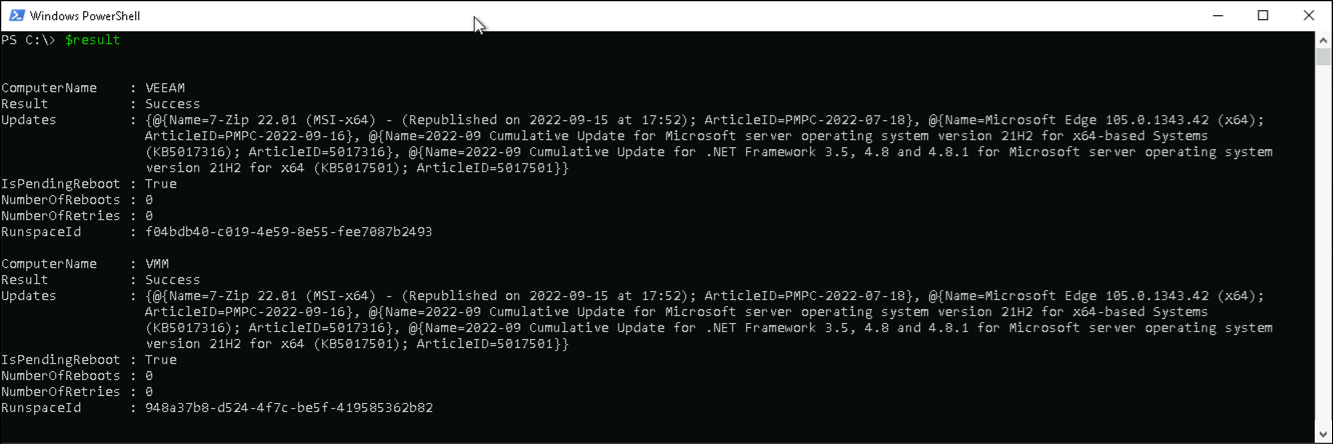
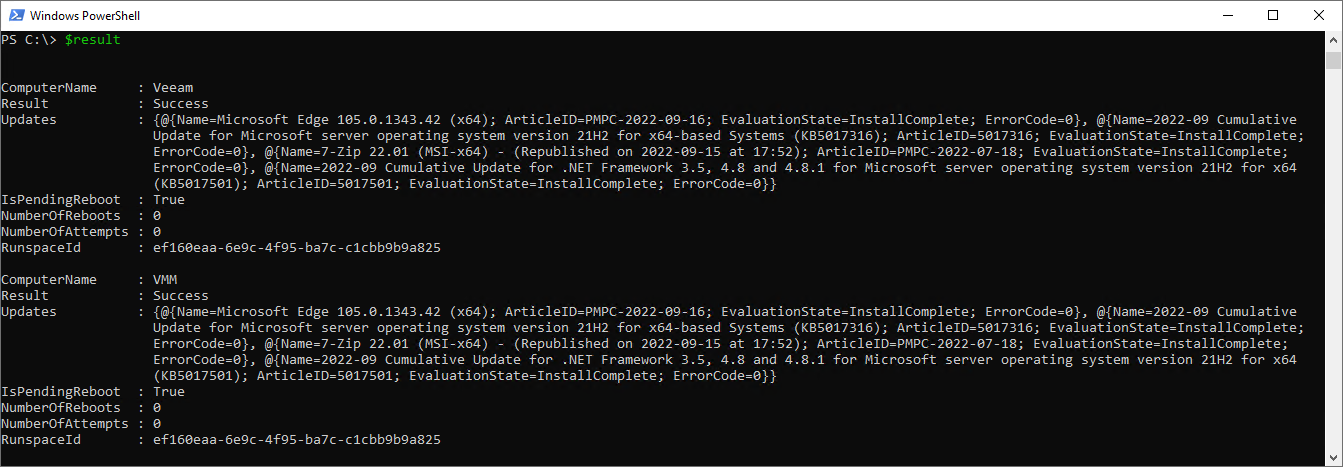
deploy: codaamok/codaamok.github.io-hugo@5cd3fd53d8760b20e4a92c26735a506f9582135f

Changed region(s): [[0.0, 0.0, 1.0, 1.0]]

diff --git a/p/patching-snowflakes-with-configmgr-and-powershell/index.html b/p/patching-snowflakes-with-configmgr-and-powershell/index.html
@@ -310,7 +310,7 @@
 <p>For each host, it will remotely start the software update installation for all updates deployed to it. By default it doesn&rsquo;t reboot or make any retry attempts, but there parameters for this if you need it:</p>
 <ul>
 <li><code>-AllowReboot</code> switch will reboot the system(s) if any update returned an exit code indicating a reboot is required</li>
-<li><code>-Retry</code> parameter will let you indicate the maximum number of retries you would like the function to install updates if there was a failure in the previous attempt</li>
+<li><code>-Attempts</code> parameter will let you indicate the maximum number of retries you would like the function to install updates if there was a failure in the previous attempt</li>
 </ul>
 <p>All hosts are processed in parallel, and you will get a live progress update from each host as it has finished patching with a break down of what updates were installed, success or failure.</p>
 <p>If you use the either the <code>-ComputerName</code> or <code>-CollectionId</code> parameters, an output object is returned at the end with the result of patching for each host. This is great because if you want to orchestrate a complex patching routine with tools such as System Center Orchestrator or Azure Automation, you can absolutely do this with the feedback from the function.</p>
@@ -329,9 +329,9 @@
 <p>Beyond the first few lines revolving around startup, you can see essential information as the jobs finish patching each host. We can see the list of updates that successfully installed, and a yellow text warning indicating one of the updates put the system in a pending reboot state.</p>
 <p>If you were running this ad-hoc and interactively, I suspect you might find this realtime information helpful. This output likely can&rsquo;t easily be captured by most automation tools as it&rsquo;s just <code>Write-Host</code>. However, this is why an output object is returned instead (see below) - this output can be captured and used however you please.</p>
 <p><figure>
-		<a href="/p/patching-snowflakes-with-configmgr-and-powershell/images/1-2.png" data-size="1333x444">
-			<img srcset="/p/patching-snowflakes-with-configmgr-and-powershell/images/1-2_hu2c6f93c18e2135ad06c397f512fac514_144461_480x0_resize_box_3.png 480w, /p/patching-snowflakes-with-configmgr-and-powershell/images/1-2_hu2c6f93c18e2135ad06c397f512fac514_144461_1024x0_resize_box_3.png 1024w"
-				src="/p/patching-snowflakes-with-configmgr-and-powershell/images/1-2.png" width="1333" height="444" loading="lazy"
+		<a href="/p/patching-snowflakes-with-configmgr-and-powershell/images/1-2.png" data-size="1343x467">
+			<img srcset="/p/patching-snowflakes-with-configmgr-and-powershell/images/1-2_hue6073ed9b45b75b8cde726c8a2cd244d_310001_480x0_resize_box_3.png 480w, /p/patching-snowflakes-with-configmgr-and-powershell/images/1-2_hue6073ed9b45b75b8cde726c8a2cd244d_310001_1024x0_resize_box_3.png 1024w"
+				src="/p/patching-snowflakes-with-configmgr-and-powershell/images/1-2.png" width="1343" height="467" loading="lazy"
 				alt="Output object in the $result variable">
 		</a>
 		
@@ -341,22 +341,22 @@
 <p>Looking at the above screenshot, this is where more automation possibilities become available for you.</p>
 <p>The function returned a summary of the patch jobs for each host as output objects, and we captured this in the <code>$result</code> variable from the last screenshot. Here we can see valuable information that might help feed as input to other automation things.</p>
 <p>Here is another example, if I ran the following command:</p>
-<div class="highlight"><pre tabindex="0" style="color:#f8f8f2;background-color:#272822;-moz-tab-size:4;-o-tab-size:4;tab-size:4"><code class="language-ps" data-lang="ps"><span style="color:#a6e22e">$result</span> <span style="color:#a6e22e">=</span> <span style="color:#a6e22e">Invoke-CMSnowflakePatching</span> <span style="color:#a6e22e">-ComputerName</span> <span style="color:#a6e22e">&#39;VEEAM&#39;</span> <span style="color:#a6e22e">-AllowReboot</span> <span style="color:#a6e22e">-Retry</span> <span style="color:#ae81ff">3</span>
+<div class="highlight"><pre tabindex="0" style="color:#f8f8f2;background-color:#272822;-moz-tab-size:4;-o-tab-size:4;tab-size:4"><code class="language-ps" data-lang="ps"><span style="color:#a6e22e">$result</span> <span style="color:#a6e22e">=</span> <span style="color:#a6e22e">Invoke-CMSnowflakePatching</span> <span style="color:#a6e22e">-ComputerName</span> <span style="color:#a6e22e">&#39;VEEAM&#39;</span> <span style="color:#a6e22e">-AllowReboot</span> <span style="color:#a6e22e">-Attempts</span> <span style="color:#ae81ff">3</span>
 </code></pre></div><p>This time we&rsquo;re just targetting the one server, permitting the server to reboot if an update returned a hard/soft pending reboot, and allow a maximum of 3 retries if there were any installation failures.</p>
 <p>At the end of the process, you will receive an output object similar to the below in the <code>$result</code> variable:</p>
 <pre><code>PS C:\&gt; $result
 
-ComputerName    : VEEAM
-Result          : Failure
-Updates         : {@{Name=7-Zip 22.01 (MSI-x64); ArticleID=PMPC-2022-07-18; EvaluationState=Error;
-                  ErrorCode=2147944003}, @{Name=2022-08 Security Update for Microsoft server operating system version 21H2 for x64-based Systems
-                  (KB5012170); ArticleID=5012170; EvaluationState=InstallComplete; ErrorCode=0}, @{Name=2022-08 Cumulative Update for .NET Framework 3.5 and 4.8 for
-                  Microsoft server operating system version 21H2 for x64 (KB5015733); ArticleID=5015733; EvaluationState=InstallComplete; ErrorCode=0},
-                  @{Name=Microsoft Edge 105.0.1343.33 (x64); ArticleID=PMPC-2022-09-09; EvaluationState=InstallComplete; ErrorCode=0}}
-IsPendingReboot : False
-NumberOfReboots : 1
-NumberOfRetries : 3
-RunspaceId      : af37488e-dad9-4d56-b72a-5aa642e589e4
+ComputerName     : VEEAM
+Result           : Failure
+Updates          : {@{Name=7-Zip 22.01 (MSI-x64); ArticleID=PMPC-2022-07-18; EvaluationState=Error;
+                   ErrorCode=2147944003}, @{Name=2022-08 Security Update for Microsoft server operating system version 21H2 for x64-based Systems
+                   (KB5012170); ArticleID=5012170; EvaluationState=InstallComplete; ErrorCode=0}, @{Name=2022-08 Cumulative Update for .NET Framework 3.5 and 4.8 for
+                   Microsoft server operating system version 21H2 for x64 (KB5015733); ArticleID=5015733; EvaluationState=InstallComplete; ErrorCode=0},
+                   @{Name=Microsoft Edge 105.0.1343.33 (x64); ArticleID=PMPC-2022-09-09; EvaluationState=InstallComplete; ErrorCode=0}}
+IsPendingReboot  : False
+NumberOfReboots  : 1
+NumberOfAttempts : 3
+RunspaceId       : af37488e-dad9-4d56-b72a-5aa642e589e4
 </code></pre><p>From the output above you can see the overall result from patching my Veeam server; the list of updates that were installed, whether there is a pending reboot, how many times the server was rebooted during patching, and how many times it retried.</p>
 <p>We can see <code>NumberOfRetries</code> is 3, and that <code>7-Zip 22.01 (MSI-x64)</code> finished in a state of <code>Error</code> - it failed to install the update despite 3 attempts.</p>
 <p>It looks like it installed all updates, and likely one of the Windows updates returned a pending reboot so the server rebooted. As the 7-Zip update failed in the previous attempt, it was retried. It retried for a maximum of 3 attempts before returning.</p>
